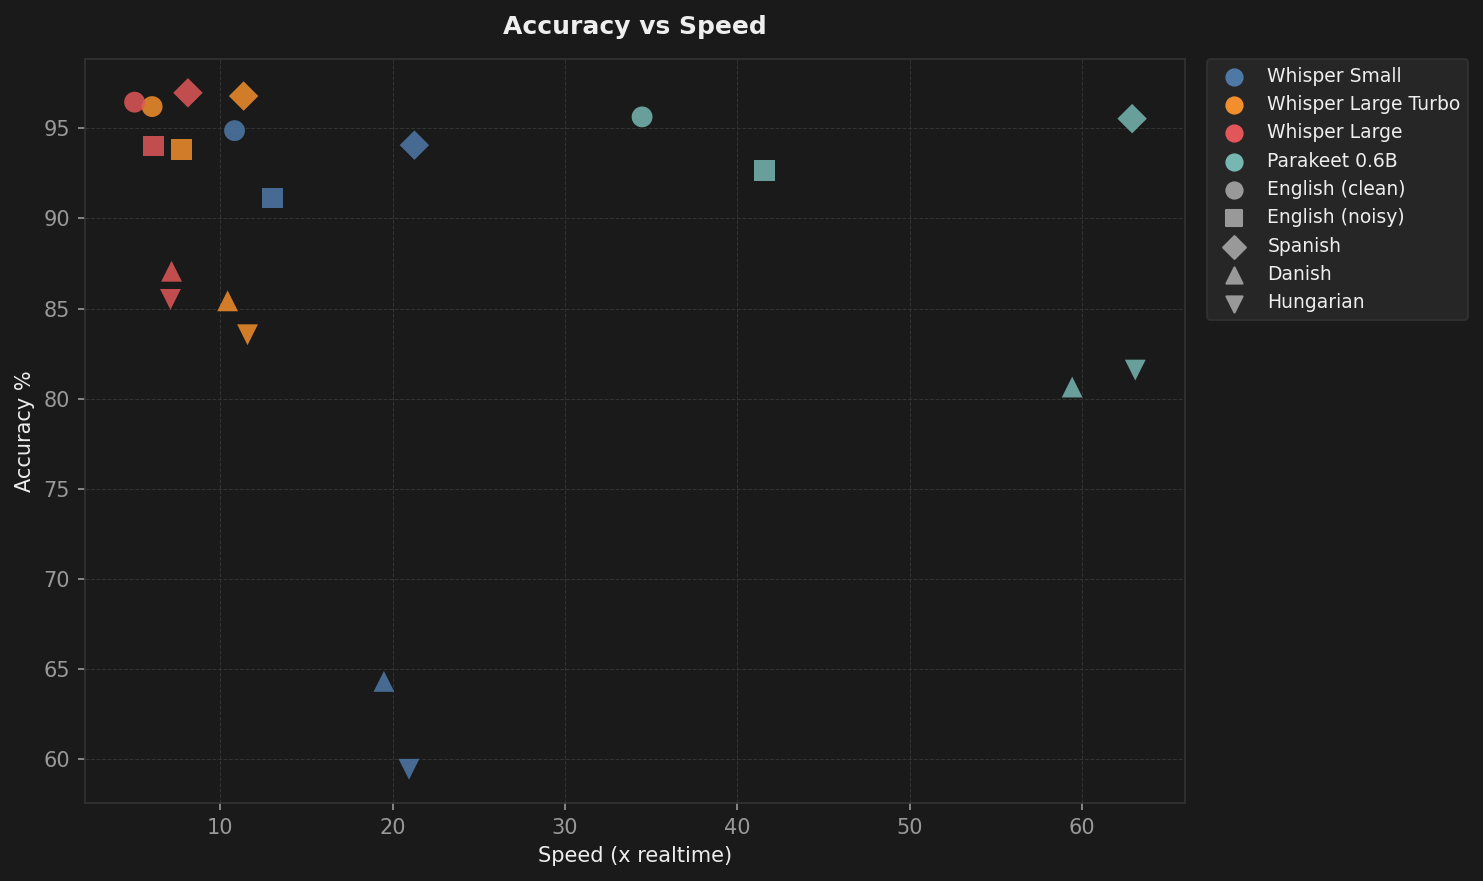
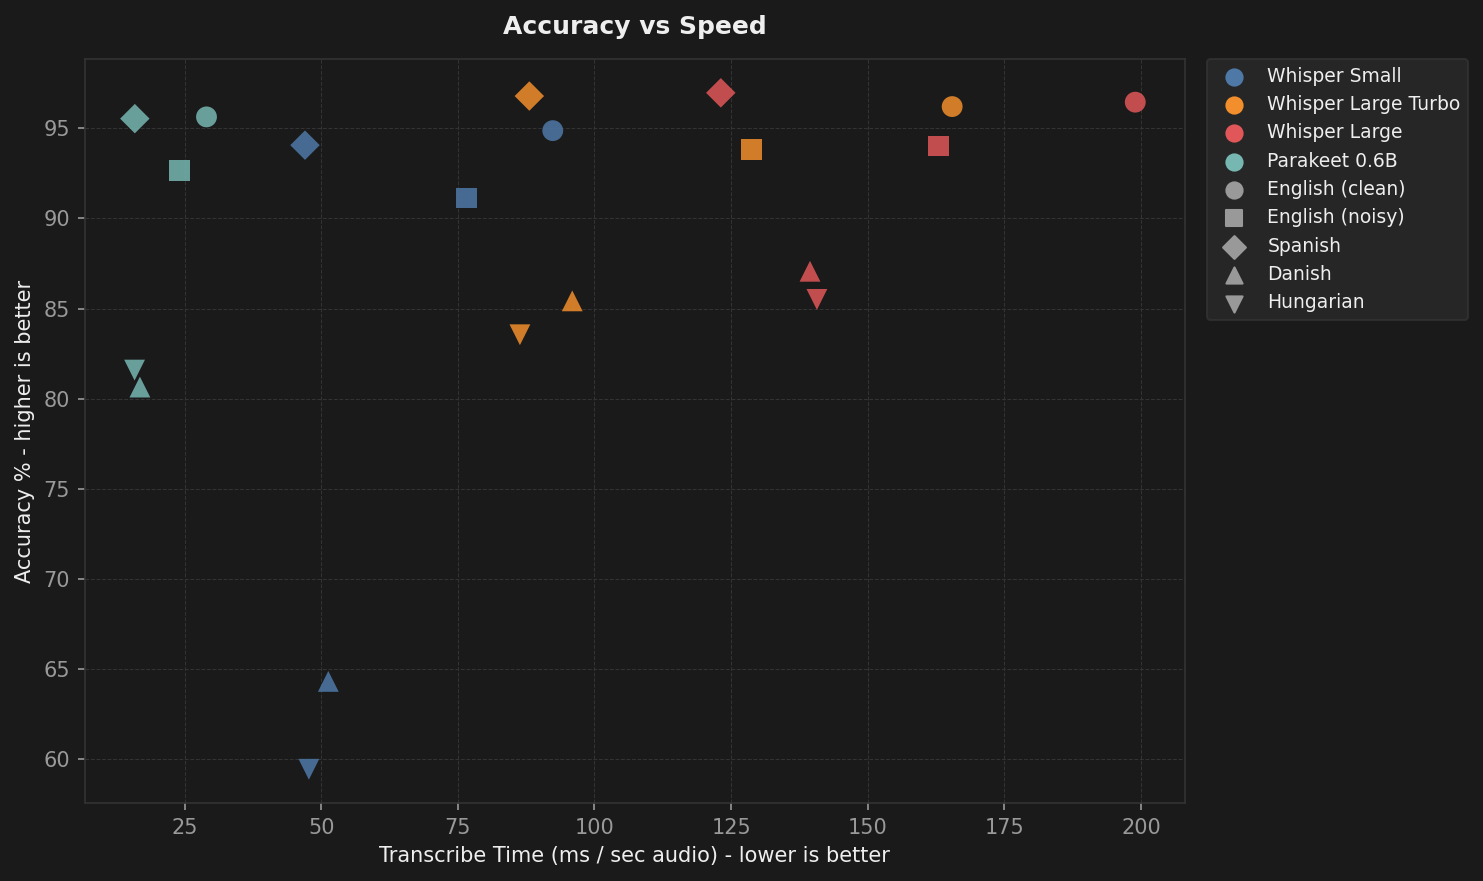
updated bench

diff --git a/benchmarks/stt/charts.py b/benchmarks/stt/charts.py
@@ -139,9 +139,9 @@ def generate_scatter(results: dict, out_path: Path) -> None:
         color = COLORS[mi % len(COLORS)]
         marker = markers[ci % len(markers)]
         accuracy = (1 - p["wer"]) * 100
-        speed = 1 / p["rtf"] if p["rtf"] > 0 else 0
+        speed_ms = p["rtf"] * 1000
 
-        ax.scatter(speed, accuracy, c=color, marker=marker, s=100,
+        ax.scatter(speed_ms, accuracy, c=color, marker=marker, s=100,
                    zorder=3, alpha=0.85, edgecolors="none")
 
         if p["model"] not in plotted_models:
@@ -151,8 +151,8 @@ def generate_scatter(results: dict, out_path: Path) -> None:
     for ci, cond in enumerate(conditions):
         ax.scatter([], [], c=DARK_LABEL, marker=markers[ci % len(markers)], s=60, label=cond)
 
-    ax.set_xlabel("Speed (x realtime)")
-    ax.set_ylabel("Accuracy %")
+    ax.set_xlabel("Transcribe Time (ms / sec audio) - lower is better")
+    ax.set_ylabel("Accuracy % - higher is better")
     ax.set_title("Accuracy vs Speed", fontweight="bold", pad=12)
     ax.legend(facecolor="#2a2a2a", edgecolor=DARK_GRID, labelcolor=DARK_FG, fontsize=9,
               bbox_to_anchor=(1.02, 1), loc="upper left", borderaxespad=0)
